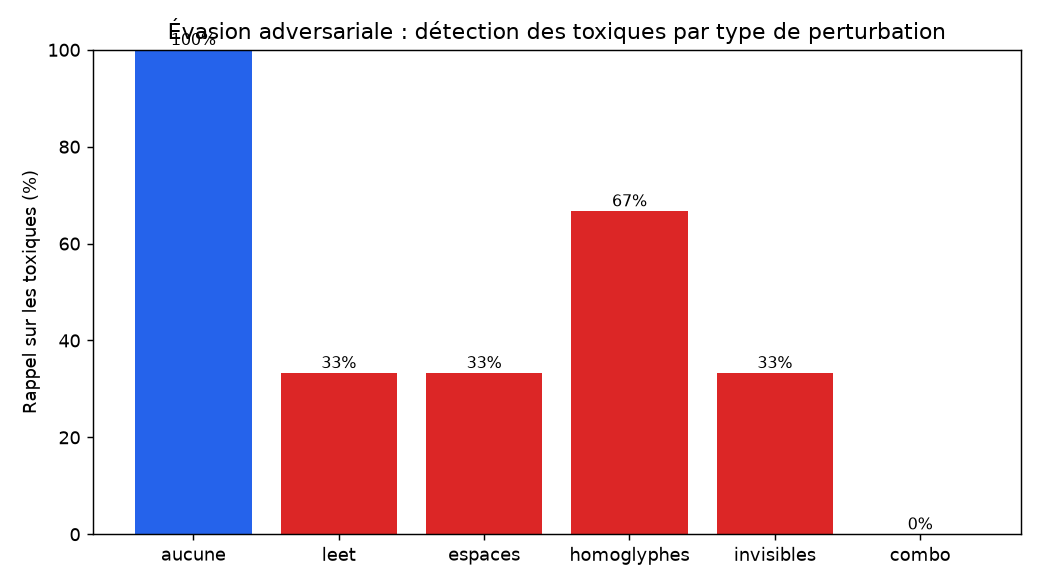
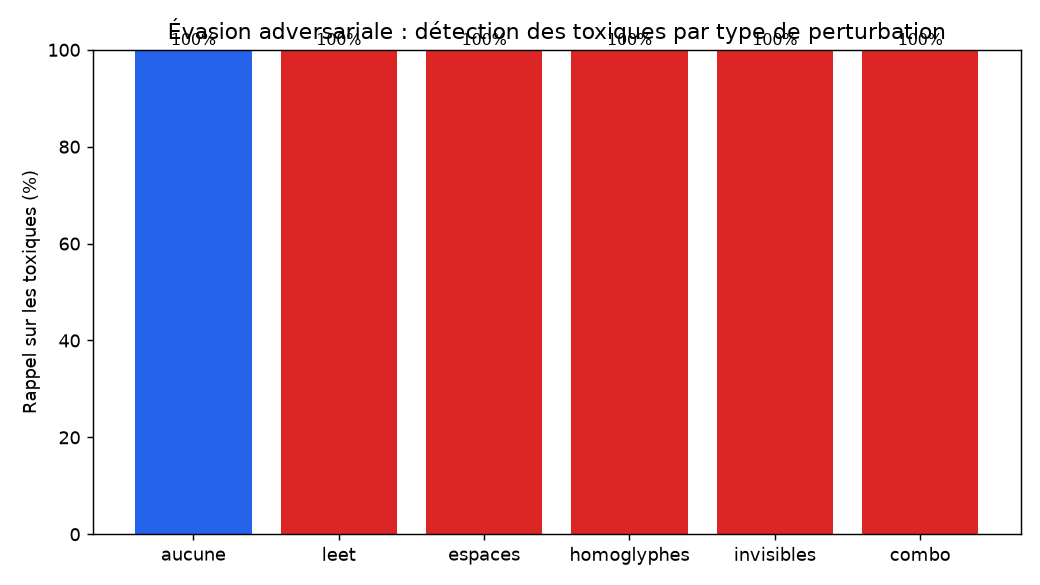
TP2 defense: normalisation anti-evasion + API moins bavarde + doc fermee en prod
- preprocessing.py: normaliser_defense() en tete de preprocess (anti leet/homoglyphes/invisibles)

- main.py: reponse reduite a {toxique}, /health allege, docs fermees si ENV=prod

- deployment.yaml: ENV=prod

Claude-Session: https://claude.ai/code/session_018nfWPUdbxQNHaFXbEvH1zj

diff --git a/api/main.py b/api/main.py
@@ -1,7 +1,10 @@
-"""API Digital Social Score : reçoit un texte, renvoie un score de toxicité de 0 à 100.
+"""API Digital Social Score : reçoit un texte, renvoie un verdict de toxicité.
 
 Flux d'une requête : clé API -> validation -> anonymisation -> nettoyage -> modèle -> score.
 Le texte reçu n'est jamais journalisé ni stocké.
+Réponse volontairement minimale (toxique oui/non) : le score, les probabilités, les seuils
+et la version du modèle restent internes (logs/métriques) pour ne pas aider un attaquant à
+régler une évasion ni à extraire le modèle.
 """
 import logging
 import os
@@ -25,10 +28,18 @@ scorer = load_scorer()
 API_KEY = os.environ.get("API_KEY")          # injectée depuis Secret Manager (Secret Kubernetes), jamais dans le code
 MAX_CHARS = int(os.environ.get("MAX_CHARS", "5000"))
 
+# Doc publique désactivée (docs_url/redoc_url/openapi_url = None) : ne pas exposer le schéma
+# complet de l'API à un attaquant non authentifié.
+# Prod : doc fermée. Dev/staging : doc ouverte. Piloté par la variable d'env ENV.
+EST_PROD = os.environ.get("ENV", "dev").lower() == "prod"
+
 app = FastAPI(
     title="Digital Social Score API",
-    description="Score de toxicité (0-100) d'un texte. Le texte reçu est anonymisé et n'est jamais stocké.",
+    description="Score de toxicité d'un texte. Le texte reçu est anonymisé et n'est jamais stocké.",
     version="1.0.0",
+    docs_url=None if EST_PROD else "/docs",
+    redoc_url=None if EST_PROD else "/redoc",
+    openapi_url=None if EST_PROD else "/openapi.json",
 )
 api_key_header = APIKeyHeader(name="X-API-Key", auto_error=False)
 
@@ -56,19 +67,15 @@ class Demande(BaseModel):
 
 
 class Reponse(BaseModel):
-    score: int = Field(..., ge=0, le=100,
-                       description="Moyenne x 100 des labels détectés, sinon probabilité de toxic x 100")
-    labels: dict[str, float]
+    # Réponse minimale : uniquement le verdict. Le détail (score, labels, seuils, version)
+    # reste interne pour ne pas donner de signal exploitable à un attaquant.
     toxique: bool = Field(..., description="Au moins un label dépasse son seuil de décision")
-    labels_detectes: list[str] = Field(..., description="Labels dont la probabilité dépasse le seuil")
-    seuils: dict[str, float] = Field(..., description="Seuils de décision du modèle, calibrés sur la validation")
-    model_version: str
 
 
 @app.get("/health")
 def health():
-    """Sonde de vie (load balancer, Kubernetes)."""
-    return {"status": "ok", "model_version": scorer.version, "preprocessing_version": PREPROCESSING_VERSION}
+    """Sonde de vie (load balancer, Kubernetes) : statut seul, sans révéler les versions."""
+    return {"status": "ok"}
 
 
 @app.post("/score", response_model=Reponse, dependencies=[Depends(verifier_cle)])
@@ -77,21 +84,16 @@ def score(demande: Demande):
         raise HTTPException(status_code=422, detail="Texte vide")
 
     t0 = time.perf_counter()
-    texte = preprocess(demande.text)            # MÊME traitement qu'à l'entraînement
+    texte = preprocess(demande.text)            # MÊME traitement qu'à l'entraînement (inclut la normalisation anti-évasion)
     probas = scorer.predict([texte])[0]
     duree_ms = 1000 * (time.perf_counter() - t0)
 
     detectes = [label for label in LABELS if probas[label] >= scorer.seuils[label]]
-    # Score 0-100 (DOCUMENTATION.md §4) : moyenne des labels détectés, sinon probabilité de toxic
+    # Score 0-100 (DOCUMENTATION.md §4) : moyenne des labels détectés, sinon probabilité de toxic.
+    # Calculé pour le LOG interne et la décision, mais PAS renvoyé au client.
     retenus = detectes or ["toxic"]
     score_final = round(100 * sum(probas[label] for label in retenus) / len(retenus))
-    # Log SANS le texte : longueur, score, durée (minimisation RGPD)
+    # Log SANS le texte : score, longueur, durée (minimisation RGPD). Le détail reste ici, pas dans la réponse.
     log.info("score=%d longueur=%d duree_ms=%.1f", score_final, len(demande.text), duree_ms)
-    return Reponse(
-        score=score_final,
-        labels={label: round(probas[label], 4) for label in LABELS},
-        toxique=bool(detectes),
-        labels_detectes=detectes,
-        seuils=scorer.seuils,
-        model_version=scorer.version,
-    )
+
+    return Reponse(toxique=bool(detectes))

diff --git a/api/attaque.py b/api/attaque.py
@@ -1,0 +1,95 @@
+"""Red team : simule contre NOTRE API déployée les attaques du TP sécurité, pour remplir
+la grille (S7, S8) et prouver que les défenses tiennent. Mesure ce qui arrive à l'API
+pendant chaque scénario : codes retour, latence, part de requêtes bloquées (429).
+
+À n'utiliser QUE contre une API dont on est responsable (la nôtre) ou qu'on est
+explicitement autorisé à tester. Cible via la variable d'environnement URL.
+
+Usage :
+    URL=https://<domaine>.sslip.io python securite/attaque_resilience.py
+
+"""
+import argparse
+import asyncio
+import os
+import time
+from collections import Counter
+
+import aiohttp
+
+URL = os.environ.get("URL", "http://localhost:8080").rstrip("/")
+KEY = os.environ.get("KEY", "")
+TEXTE = {"text": "You are a stupid idiot, go away"}
+
+
+async def un_appel(session, headers, payload, stats, latences):
+    t0 = time.perf_counter()
+    try:
+        async with session.post(f"{URL}/score", json=payload, headers=headers) as r:
+            await r.read()
+            stats[r.status] += 1
+    except asyncio.TimeoutError:
+        stats["timeout"] += 1
+    except aiohttp.ClientError:
+        stats["connexion_refusee"] += 1
+    latences.append((time.perf_counter() - t0) * 1000)
+
+
+async def travailleur(session, headers, payload, fin, stats, latences):
+    while time.monotonic() < fin:
+        await un_appel(session, headers, payload, stats, latences)
+
+
+async def scenario(nom, headers, payload, users, duree):
+    stats, latences = Counter(), []
+    fin = time.monotonic() + duree
+    timeout = aiohttp.ClientTimeout(total=15)
+    async with aiohttp.ClientSession(timeout=timeout) as session:
+        taches = [travailleur(session, headers, payload, fin, stats, latences) for _ in range(users)]
+        await asyncio.gather(*taches)
+
+    total = sum(stats.values())
+    latences.sort()
+    p95 = latences[int(len(latences) * 0.95)] if latences else 0
+    print(f"\n=== {nom}  ({users} clients en parallèle, {duree} s)")
+    print(f"  requêtes envoyées : {total}  (~{total / duree:.0f}/s)")
+    for code, n in sorted(stats.items(), key=lambda x: str(x[0])):
+        print(f"  {str(code):>16} : {n:5}  ({100 * n / total:.1f} %)")
+    print(f"  latence médiane : {latences[len(latences)//2]:.0f} ms | P95 : {p95:.0f} ms")
+    bloquees = stats.get(429, 0)
+    cinq_xx = sum(n for c, n in stats.items() if isinstance(c, int) and c >= 500)
+    verdict = ("DÉFENSE OK : l'excédent est refusé proprement (429)" if bloquees
+               else "PAS DE LIMITE : toutes les requêtes passent, risque de saturation" if not cinq_xx
+               else "SATURATION : des 5xx apparaissent, l'API souffre")
+    print(f"  -> {verdict}")
+
+
+SCENARIOS = {
+    # S8 : rafale SANS clé -> doit rester 401, le service ne doit pas tomber
+    "flood-sans-cle": ("Rafale sans clé API (S8)", {}, TEXTE),
+    # S7 : rafale AVEC clé valide -> DoS applicatif ; défense = limite de débit (429) + autoscaling
+    "flood-valide": ("Rafale avec clé valide (S7, DoS)", {"X-API-Key": KEY}, TEXTE),
+    # Mauvaises clés à répétition -> ne doit rien révéler, 401 constant
+    "mauvaises-cles": ("Rafale de clés invalides", {"X-API-Key": "x" * 64}, TEXTE),
+    # Payload maximal -> doit être refusé (422) sans erreur 500
+    "gros-payload": ("Texte de 50 000 caractères", {"X-API-Key": KEY}, {"text": "idiot " * 9000}),
+}
+
+
+async def main():
+    ap = argparse.ArgumentParser()
+    ap.add_argument("--scenario", choices=list(SCENARIOS) + ["tous"], default="tous")
+    ap.add_argument("--users", type=int, default=30)
+    ap.add_argument("--duree", type=int, default=20)
+    args = ap.parse_args()
+
+    print(f"Cible : {URL}  (ne lancer que contre une API dont on est responsable)")
+    noms = list(SCENARIOS) if args.scenario == "tous" else [args.scenario]
+    for cle in noms:
+        titre, headers, payload = SCENARIOS[cle]
+        await scenario(titre, headers, payload, args.users, args.duree)
+        await asyncio.sleep(3)   # laisse l'API respirer entre deux scénarios
+
+
+if __name__ == "__main__":
+    asyncio.run(main())

diff --git a/api/preprocessing.py b/api/preprocessing.py
@@ -11,6 +11,7 @@ nettoyage + entraînement, puis de redéployer l'API.
 """
 import ipaddress
 import re
+import unicodedata
 
 import spacy
 
@@ -333,6 +334,52 @@ def clean_text(text: str) -> str:
     return re.sub(r"\s+", " ", text).strip()     # 4. espaces multiples et retours à la ligne -> un espace
 
 
+# =============================================================================
+# 5. DÉFENSE ANTI-ÉVASION (normalisation appliquée AVANT tout, à l'inférence)
+# =============================================================================
+# Annule les obfuscations d'une attaque d'évasion adversariale (leet, espacement,
+# homoglyphes, caractères invisibles) pour ramener le texte vers la forme apprise par le
+# modèle. Appliquée uniquement dans preprocess() (chemin API), AVANT anonymisation et
+# nettoyage : les homoglyphes et les caractères invisibles doivent partir avant le regex et
+# le NER, sinon ils cassent déjà ces étapes.
+# Ne change PAS PREPROCESSING_VERSION : sur un commentaire normal (ni homoglyphe ni
+# invisible), la normalisation est quasi neutre, donc la sortie reste identique pour la
+# distribution d'entraînement ; elle ne fait que dé-déguiser une entrée hostile.
+_HOMOGLYPHES_INV = {"\u0430": "a", "\u0435": "e", "\u043e": "o", "\u0456": "i", "\u0441": "c", "\u0440": "p", "\u0443": "y", "\u0445": "x"}
+_LEET_INV = {"4": "a", "3": "e", "1": "i", "0": "o", "$": "s", "7": "t", "@": "a"}
+_INVISIBLES = dict.fromkeys(map(ord, "\u200b\u200c\u200d\ufeff"), None)
+_RE_LETTRES_ESPACEES = re.compile(r"\b(?:[a-zA-Z]\s){2,}[a-zA-Z]\b")
+_RE_A_UNE_LETTRE = re.compile(r"[a-zA-Z]")
+
+
+def _deleet(mot: str) -> str:
+    """Dé-leet conservateur : ne modifie un token que s'il contient au moins deux chiffres
+    leet, ou un chiffre strictement entre deux lettres. Un token purement numérique ("100")
+    ou un chiffre isolé en bord de mot ("3pm", "v2") est laissé intact (anti faux positif)."""
+    if not _RE_A_UNE_LETTRE.search(mot):
+        return mot
+    positions = [i for i, c in enumerate(mot) if c in _LEET_INV]
+    if not positions:
+        return mot
+    entre_lettres = any(0 < i < len(mot) - 1 and mot[i - 1].isalpha() and mot[i + 1].isalpha()
+                        for i in positions)
+    if len(positions) >= 2 or entre_lettres:
+        return "".join(_LEET_INV.get(c, c) for c in mot)
+    return mot
+
+
+def normaliser_defense(text: str) -> str:
+    """Normalise un texte pour annuler les obfuscations d'évasion adversariale."""
+    text = unicodedata.normalize("NFKC", text)                       # variantes typographiques
+    text = text.translate(_INVISIBLES)                               # caractères de largeur nulle
+    text = "".join(c for c in text if not unicodedata.combining(c))  # accents artificiels
+    text = "".join(_HOMOGLYPHES_INV.get(c, c) for c in text)         # homoglyphes cyrilliques
+    text = _RE_LETTRES_ESPACEES.sub(lambda m: m.group(0).replace(" ", ""), text)  # "i d i o t"
+    return " ".join(_deleet(mot) for mot in text.split())            # leetspeak
+
+
 def preprocess(text: str) -> str:
-    """Chaîne complète appliquée à chaque requête de l'API : anonymisation puis nettoyage."""
+    """Chaîne complète appliquée à chaque requête de l'API :
+    normalisation anti-évasion -> anonymisation -> nettoyage."""
+    text = normaliser_defense(text)             # 0. DÉFENSE : annule l'obfuscation AVANT tout
     return clean_text(anonymize(text))
